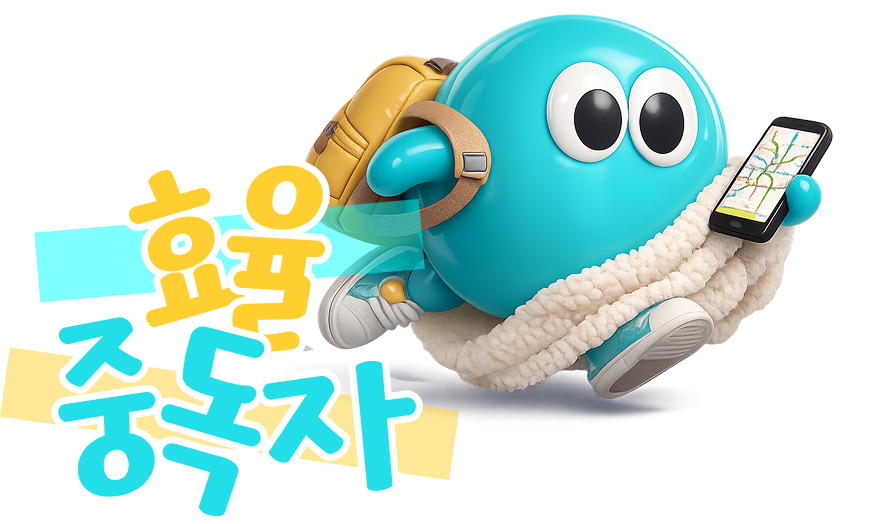
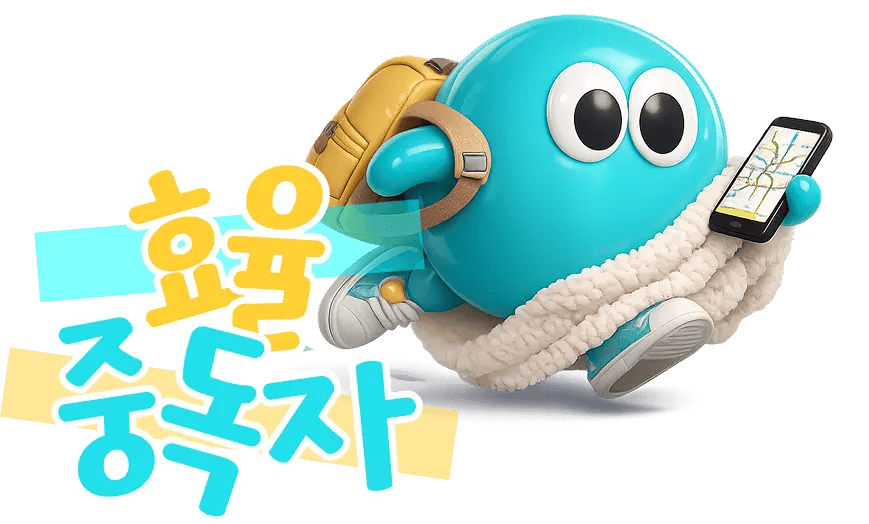
feat: update save card design and image sources, add webp for result screen

diff --git a/quiz.js b/quiz.js
@@ -101,64 +101,72 @@ const RESULT_KEY_REVERSE = Object.fromEntries(
 
 const results = {
   "집콕 마스터": {
-    img: BASE + '01_bangguseok.png',
+    img: BASE + '01_bangguseok.webp',
     thumb: BASE + '1_bangguseok.png',
+    modalImg: BASE + '01_bangguseok.png',
     name: "집콕 마스터",
     sub: '"이불 밖은 위험해!"',
     desc: "주말에 약속 없으면 오히려 에너지가 풀충전되는 찐 집순이, 집돌이! 배달과 OTT만 있으면 한 달도 거뜬하게 버텨요. 집 안에서의 쾌적함과 인프라가 삶의 질 그 자체예요.",
     link: "https://gobang.kr/youth/notices/guide?tab=happy-house"
   },
   "효율 중독자": {
-    img: BASE + '02_hyoryul.png',
+    img: BASE + '02_hyoryul.webp',
     thumb: BASE + '2_hyoryul.png',
+    modalImg: BASE + '02_hyoryul.png',
     name: "효율 중독자",
     sub: '"길바닥에 버리는 시간? 내 사전엔 없다."',
     desc: "이동 시간에 기 빨리는 걸 세상에서 제일 싫어해요. 역에서 집까지 1분 컷이어야 직성이 풀려요. 아낀 시간으로 운동도 하고, 공부도 하고, 침대에 더 누워 있는 효율 끝판왕이에요.",
     link: "https://gobang.kr/youth/notices/guide?tab=youth-safe-house"
   },
   "갓성비 장인": {
-    img: BASE + '03_gasungbi.png',
+    img: BASE + '03_gasungbi.webp',
     thumb: BASE + '3_gasungbi.png',
+    modalImg: BASE + '03_gasungbi.png',
     name: "갓성비 장인",
     sub: '"아낄 땐 아끼고, 누릴 건 누린다!"',
     desc: "돈 새는 건 싫지만 삶의 퀄리티는 포기 못 해요. 목돈 부담은 줄이고, 감성 자취 라이프는 챙기고 싶은 야무진 현실파! 할인 쿠폰, 이벤트는 놓칠 수 없어요.",
     link: "https://gobang.kr/youth/notices/guide?tab=purchase-rental"
   },
   "인간 아지트": {
-    img: BASE + '04_social.png',
+    img: BASE + '04_social.webp',
     thumb: BASE + '4_social.png',
+    modalImg: BASE + '04_social.png',
     name: "인간 아지트",
     sub: '"집에서도 사람 냄새 나야지!"',
     desc: "퇴근하고 불 꺼진 집에 혼자 들어가면 괜히 적적해져요. 집은 단순히 쉬는 공간이 아니라, 사람들과 취향도 나누고 소소한 이야기도 나누는 아지트 같은 곳이면 좋겠어요!",
     link: "https://gobang.kr/youth/notices/guide?tab=social"
   },
   "통장 다이어터": {
-    img: BASE + '05_jeokja.png',
+    img: BASE + '05_jeokja.webp',
     thumb: BASE + '5_jeokja.png',
+    modalImg: BASE + '05_jeokja.png',
     name: "통장 다이어터",
     sub: '"통장아.. 이번 달도 버텨보자!"',
     desc: "할인, 적립, 쿠폰은 일단 챙기고 보는 타입! 무지출 챌린지 영상에 괜히 눈길이 가고, 고정으로 빠져나가는 돈은 특히 아까워요. 소비는 신중하게, 만족감은 크게 챙기고 싶은 현실파예요.",
     link: "https://gobang.kr/youth/notices/guide?tab=jeonse-rental"
   },
   "멘탈 수호자": {
-    img: BASE + '06_mental.png',
+    img: BASE + '06_mental.webp',
     thumb: BASE + '6_mental.png',
+    modalImg: BASE + '06_mental.png',
     name: "멘탈 수호자",
     sub: '"마음의 평화가 제일 중요해!"',
     desc: "작은 스트레스도 은근 오래 남는 편이에요. 그래서 괜한 걱정거리나 불안 요소는 미리 치워두고 싶어요. 내 마음이 편한 게 결국 제일 큰 행복이라고 생각해요.",
     link: "https://gobang.kr/youth/notices/guide?tab=deundeun"
   },
   "동네 토박이": {
-    img: BASE + '07_jibak.png',
+    img: BASE + '07_jibak.webp',
     thumb: BASE + '7_jibak.png',
+    modalImg: BASE + '07_jibak.png',
     name: "동네 토박이",
     sub: '"익숙한 게 최고야!"',
     desc: "새로운 환경에 적응하는 것보다 익숙한 곳에서 편하게 지내는 걸 좋아해요. 한 번 정 붙이면 오래 가는 타입이라 동네 맛집도 단골도 자연스럽게 늘어나요.",
     link: "https://gobang.kr/youth/notices/guide?tab=long-term-jeonse"
   },
   "플랜 B 보유자": {
-    img: BASE + '08_mirae.png',
+    img: BASE + '08_mirae.webp',
     thumb: BASE + '8_mirae.png',
+    modalImg: BASE + '08_mirae.png',
     name: "플랜 B 보유자",
     sub: '"일단 계획부터 세워볼게?"',
     desc: "준비한 만큼 마음도 편해진다고 믿는 J 인간! 큰 그림을 그리는 걸 좋아해요. 하고 싶은 일도, 모아야 할 돈도, 이루고 싶은 목표도 미리 정리해 두는 타입이에요.",
@@ -397,7 +405,7 @@ function openTypeModal(key) {
     <div class="type-modal-box">
       <button class="type-modal-close" id="modal-close">✕</button>
       <div class="result-badge">자취 스타일</div>
-      <img class="modal-img" src="${r.img}" alt="${r.name}" />
+      <img class="modal-img" src="${r.modalImg}" alt="${r.name}" />
       <div class="result-sub">${r.sub}</div>
       <div class="result-desc">${r.desc}</div>
     </div>
@@ -452,7 +460,7 @@ function saveImage() {
 
 function _doSaveImage(r) {
 
-  document.getElementById('save-img').src = r.img;
+  document.getElementById('save-img').src = r.modalImg;
   document.getElementById('save-name').textContent = r.name;
   document.getElementById('save-sub').textContent = r.sub;
   document.getElementById('save-desc').textContent = r.desc;

diff --git a/style.css b/style.css
@@ -271,8 +271,8 @@ body {
 }
 
 .modal-img {
-  width: 280px;
-  height: 280px;
+  width: 340px;
+  height: 340px;
   object-fit: contain;
   margin: 0 auto 14px;
   display: block;
@@ -455,13 +455,13 @@ body {
   background: var(--primary-light); color: var(--primary-dark);
   font-size: 16px; font-weight: 700;
   padding: 7px 20px; border-radius: 99px;
-  letter-spacing: 0.02em; margin-bottom: 12px;
+  letter-spacing: 0.02em; margin-bottom: 20px;
   position: relative; z-index: 1;
 }
 
 .save-img-wrap {
-  width: 260px; height: 260px;
-  margin-bottom: 12px;
+  width: 340px;
+  margin-bottom: 20px;
   position: relative;
   display: flex; align-items: center; justify-content: center;
 }
@@ -469,26 +469,23 @@ body {
   content: '';
   position: absolute;
   bottom: -10px; left: 50%; transform: translateX(-50%);
-  width: 180px; height: 40px;
+  width: 220px; height: 40px;
   background: radial-gradient(ellipse, rgba(0,180,204,0.35) 0%, transparent 70%);
   z-index: 0;
 }
 .save-img {
-  width: 260px; height: 260px;
-  object-fit: contain;
+  width: 340px;
+  height: auto;
   position: relative; z-index: 1;
 }
 
 .save-name {
-  font-size: 36px; font-weight: 900;
-  color: var(--text-primary); margin-bottom: 8px;
-  position: relative; z-index: 1;
-  letter-spacing: -0.03em;
+  display: none;
 }
 
 .save-sub {
   font-size: 18px; color: var(--primary); font-weight: 700;
-  margin-bottom: 16px; position: relative; z-index: 1;
+  margin-bottom: 20px; position: relative; z-index: 1;
 }
 
 .save-desc {
@@ -501,7 +498,7 @@ body {
 }
 
 .save-footer {
-  margin-top: 16px; font-size: 15px;
+  margin-top: 24px; font-size: 15px;
   color: var(--text-muted); font-weight: 400;
   position: relative; z-index: 1;
 }
